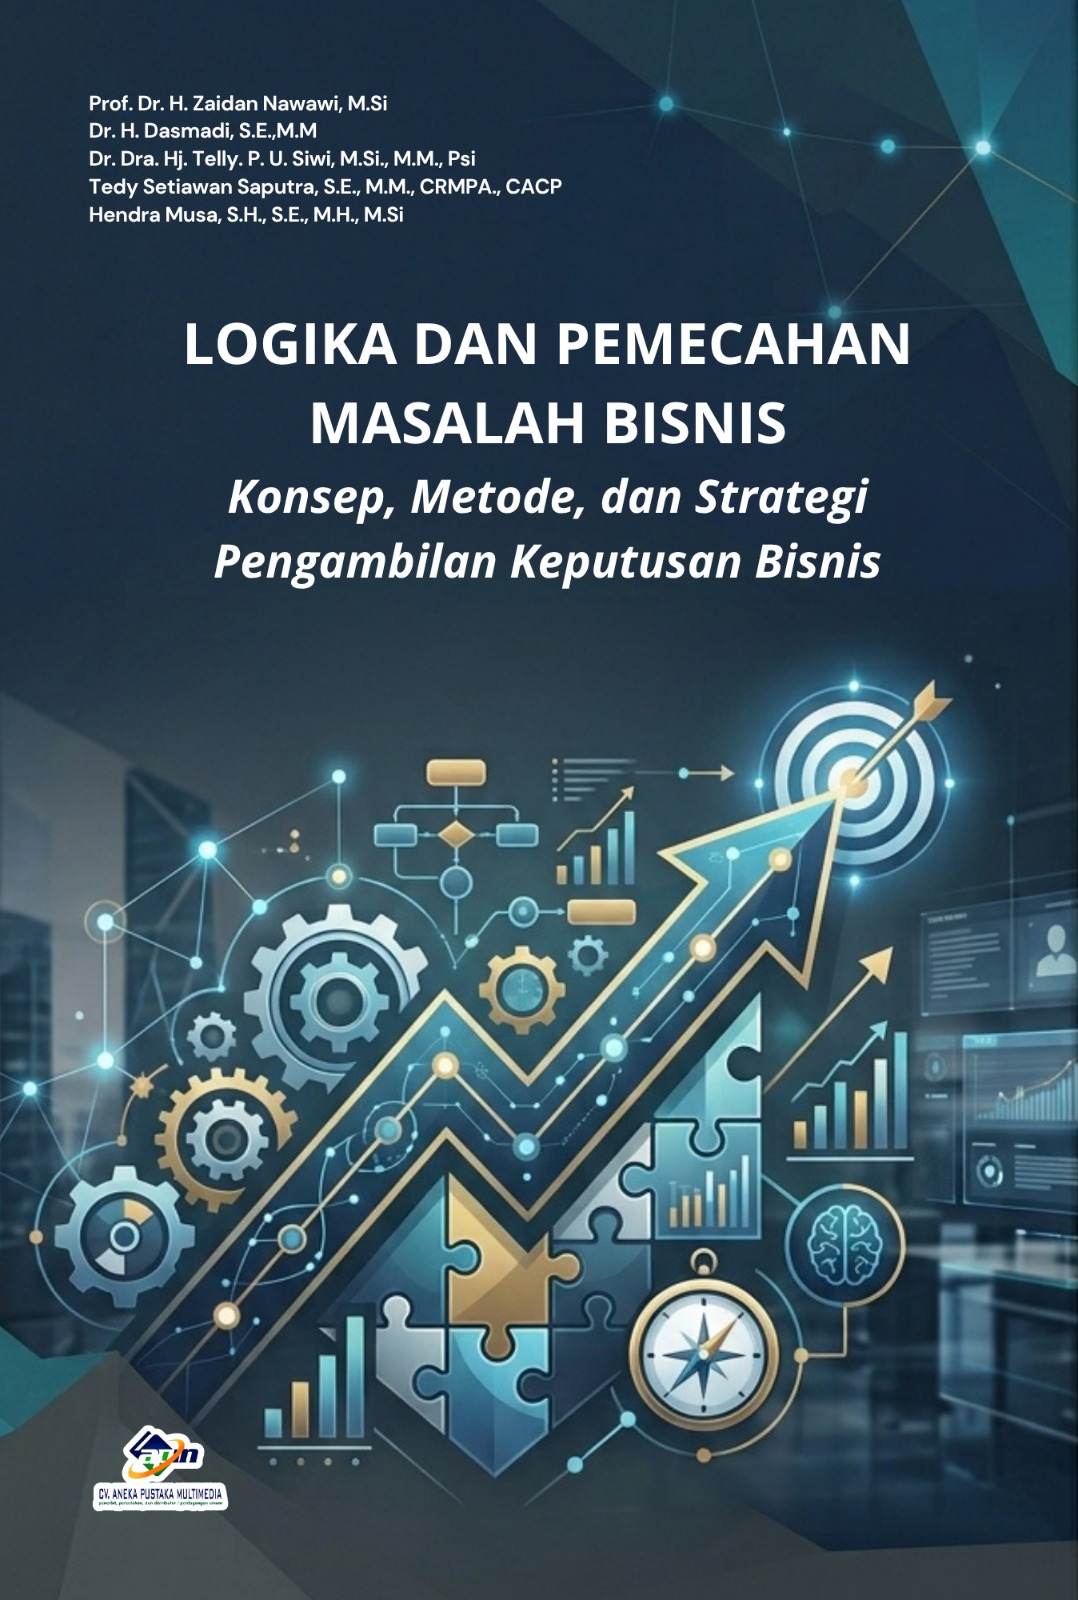
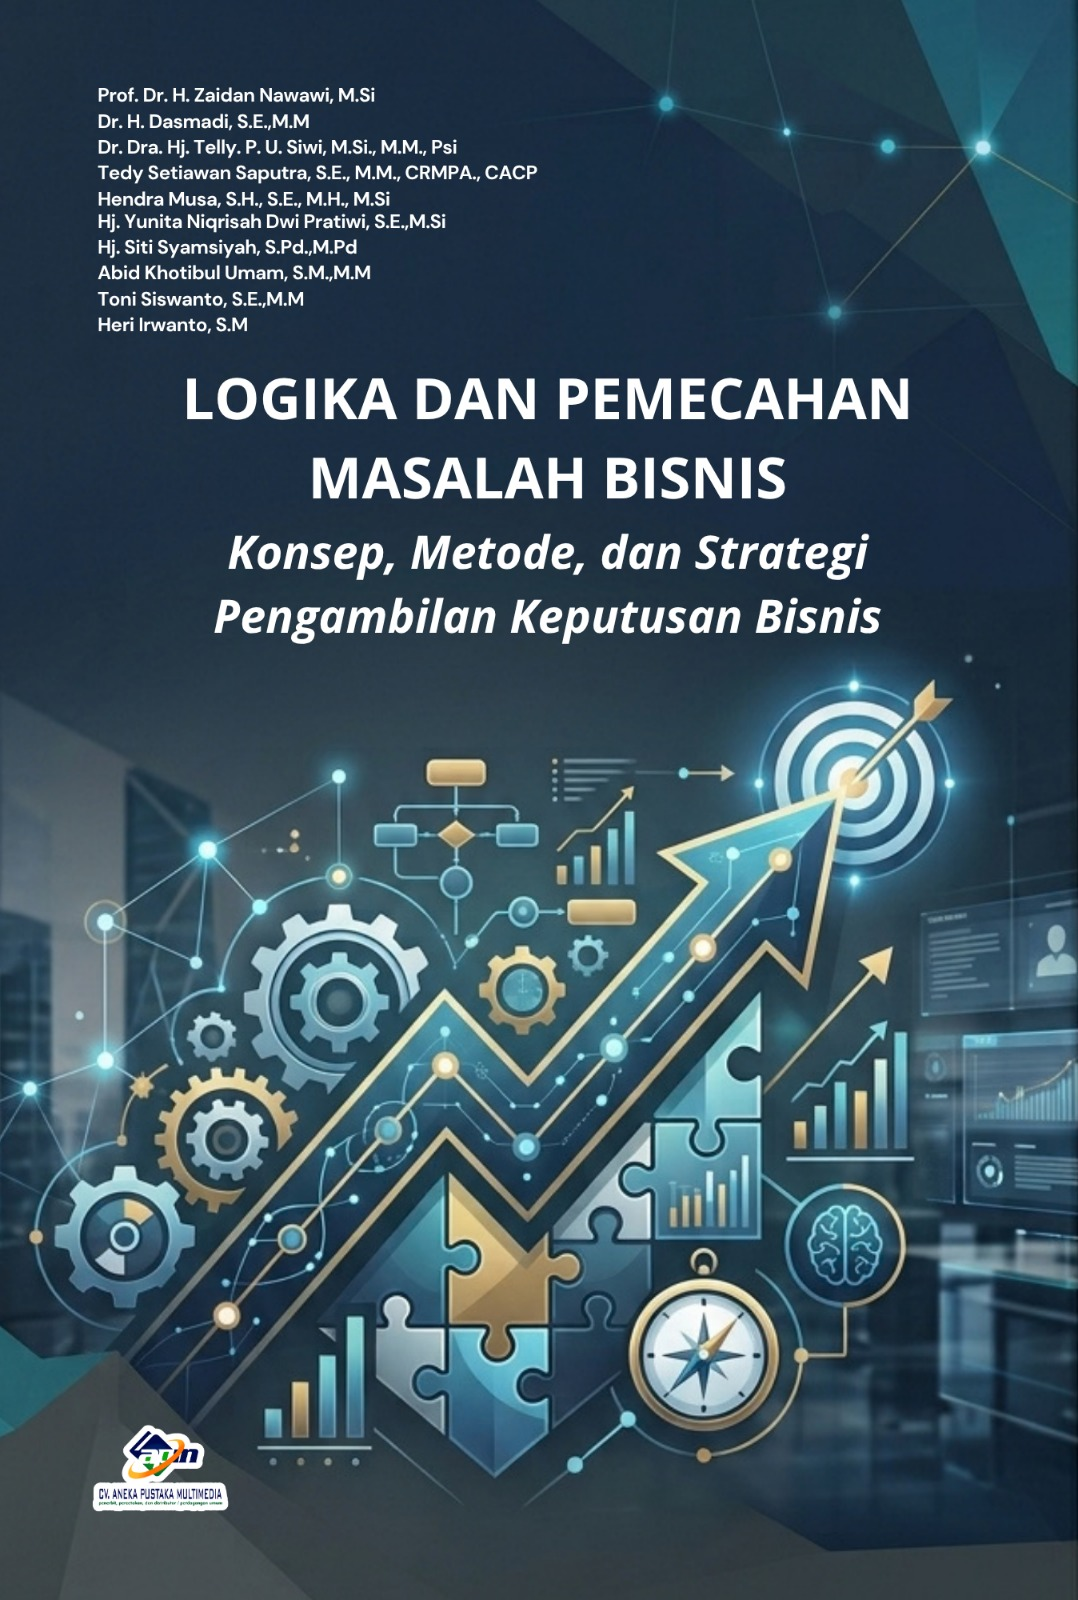
edit penulis

Changed region(s): [[0.0612, 0.0312, 0.8571, 0.4062]]

diff --git a/script/data-buku.js b/script/data-buku.js
@@ -363,12 +363,18 @@ window.dataBuku = [
     "Dr. H. Dasmadi, S.E.,M.M",
     "Dr. Dra. Hj. Telly. P. U. Siwi, M.Si., M.M., Psi",
     "Tedy Setiawan Saputra, S.E., M.M., CRMPA., CACP",
-    "Hendra Musa, S.H., S.E., M.H., M.Si"
+    "Hendra Musa, S.H., S.E., M.H., M.Si",
+	"Hj. Yunita Niqrisah Dwi Pratiwi, S.E.,M.Si",
+	"Hj. Siti Syamsiyah, S.Pd.,M.Pd",
+	"Abid Khotibul Umam, S.M.,M.M ",
+	"Toni Siswanto, S.E.,M.M",
+	"Heri Irwanto, S.M"
+
   ],
   "editor": [
-    "Hj. Yunita Niqrisah Dwi Pratiwi, S.E.,M.Si",
-    "Toni Siswanto, S.E.,M.M",
-    "Abid Khotibul Umam, S.M.,M.M"
+	"Prof. Dr. Widodo, S.E., M.Si",
+	"Prof. Dr. KH. Abdul Matin Bin Salman, Lc.,M.Ag"
+
   ],
   "ukuran": "15,5 x 23 cm",
   "halaman": "vi + 150 halaman",
